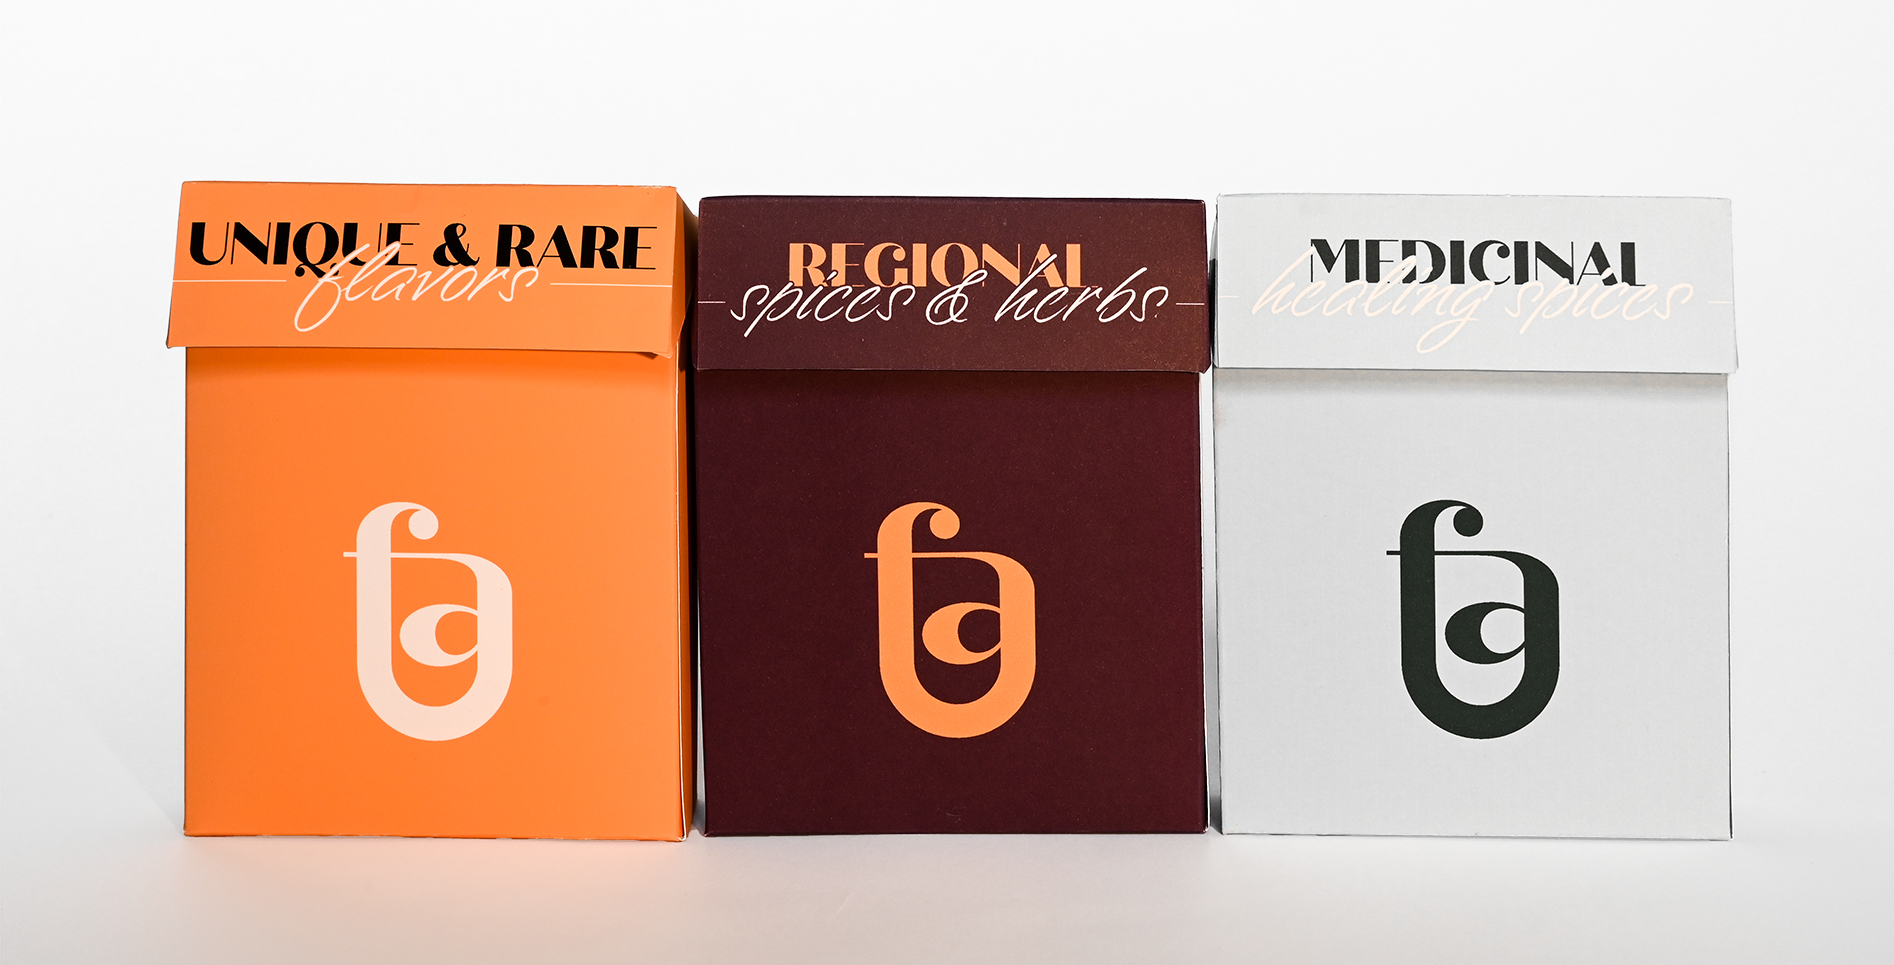
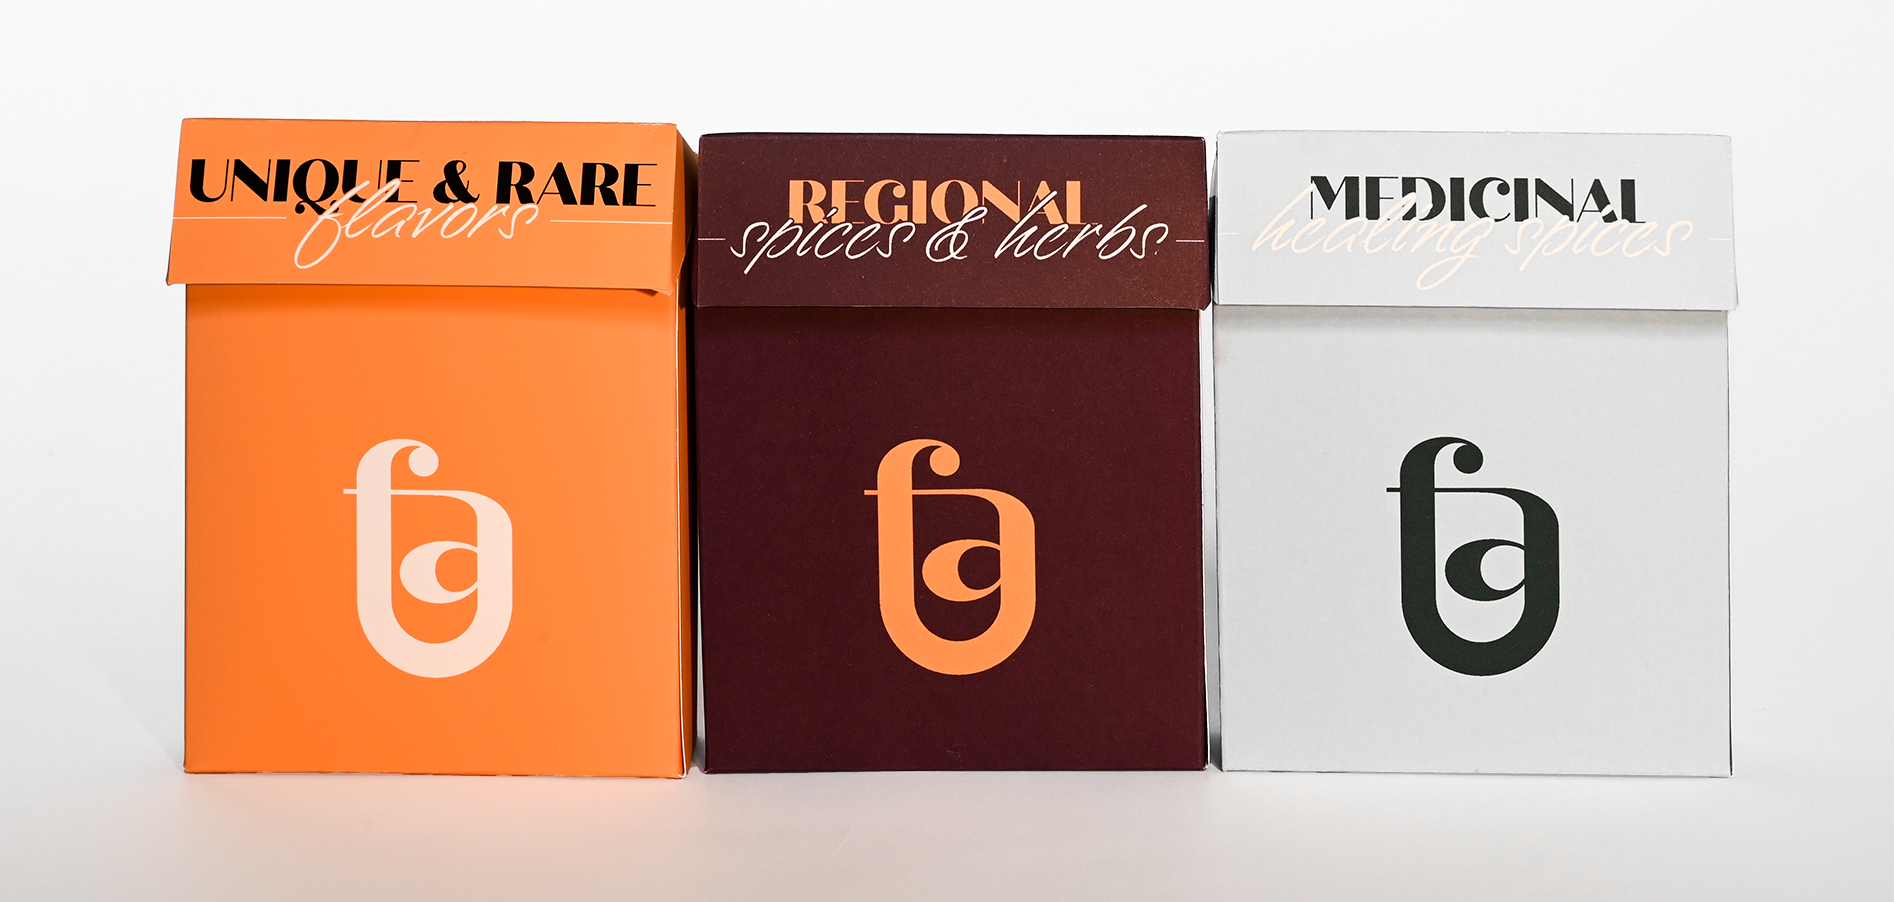
minor mobile corrections

diff --git a/works.html b/works.html
@@ -81,7 +81,7 @@
         </div>
         <div class="small_card card">
             <a href="art.html" class="a_img"><img class="card_image" src="Images/Art/Mock_up.png" alt="transparent pages flipping"></a>
-            <a href="art.html" class="title"><h2 class="title"><strong>ART poster</strong> / Interactive Website</h2></a>
+            <a href="art.html" class="title"><h2 class="title"><strong>ART poster</strong> / Interactive Poster</h2></a>
             <div class="features">
                 <p class="feature">Poster Design</p>
                 <p class="feature">Experimental Typography</p>
@@ -90,7 +90,7 @@
         </div>
         <div class="small_card card">
             <a href="goes.html" class="a_img"><img class="card_image" src="Images/GOES.png" alt="transparent pages flipping"></a>
-            <a href="goes.html" class="title"><h2 class="title"><strong>GOES Satelites</strong> / Book Design</h2></a>
+            <a href="goes.html" class="title"><h2 class="title"><strong>GOES Satelites</strong> / Poster Design</h2></a>
             <div class="features">
                 <p class="feature">Data Infographic</p>
                 <p class="feature">Poster Design</p>

diff --git a/flavoratlas.css b/flavoratlas.css
@@ -193,14 +193,14 @@ p, li {
 
 .collections_img {
     width: 100%;
-    padding-bottom: 20vh;
+    padding-bottom: 15vh;
 }
 
 /* PRINT SECTION */
 
 .print {
     width: 100%;
-    padding: 0 2vw 10vh 2vw;
+    padding: 0 2vw 5vh 2vw;
     display: grid;
     grid-template-columns: repeat(12, 1fr);
     gap: 2vw;
@@ -229,7 +229,7 @@ p, li {
     column-gap: 0;
 }
 
-#count {
+.count {
     margin-bottom: 2rem;
 }
 
@@ -371,10 +371,12 @@ p, li {
 
     h1 {
         font-size: 5em;
+        margin-bottom: 3vh;
     }
 
     h2 {
-        font-size: 2.4em;
+        font-size: 2em;
+        margin-top: 1em;
     }
 
     p, li {
@@ -412,6 +414,10 @@ p, li {
     .software {
         margin-top: 0;
         grid-column: 7 / span 5;
+    }
+
+    .collections_img, .print {
+        padding-bottom: 10vh;
     }
 
     .print_text, .website_text {
@@ -488,6 +494,15 @@ p, li {
 
     #mobile {
         width: 40%;
+    }
+
+    .button, .button:hover {
+        margin: 5vh 0;
+        width: fit-content;
+    }
+
+    #arrow {
+        transform: none;
     }
 
     .footer {

diff --git a/index.html b/index.html
@@ -70,13 +70,14 @@
             </div>
         </div>
         <div class="small_card card">
-            <a href="moon.html" class="a_img"><img class="card_image" src="Images/Moon/Card.png" alt="transparent pages flipping"></a>
-            <a href="moon.html" class="title"><h2 class="title"><strong>The Moon</strong> / Book Design</h2></a>
+            <a href="flavoratlas_intro.html" class="a_img"><img class="card_image" src="Images/Flavor Atlas/main.png" alt="box with cards"></a>
+            <a href="flavoratlas_intro.html" class="title"><h2 class="title"><strong>Flavor Atlas</strong> / Serial Branded Publication</h2></a>
             <div class="features">
-                <p class="feature">Editorial Design</p>
-                <p class="feature">Typography</p>
+                <p class="feature">Editorial Collection</p>
+                <p class="feature">Branding</p>
+                <p class="feature">Data-based Website</p>
             </div>
-        </div>
+        </div>  
     </div>
 
     <a href="works.html" class="button">

diff --git a/axles&spokes.css b/axles&spokes.css
@@ -233,7 +233,7 @@ p, li {
     align-items: center;
 }
 
-#count {
+.count {
     margin-bottom: 2rem;
 }
 
@@ -404,10 +404,12 @@ p, li {
 
     h1 {
         font-size: 5em;
+        margin-bottom: 3vh;
     }
 
     h2 {
-        font-size: 2.4em;
+        font-size: 2em;
+        margin-top: 1em;
     }
 
     p, li {
@@ -417,6 +419,19 @@ p, li {
 
     #link, #copyright {
         font-size: 1.8em;
+    }
+
+    .button, .button:hover {
+        margin: 5vh 2vw;
+        width: fit-content;
+    }
+
+    #website_link {
+        font-size: 1.8rem;
+    }
+
+    #arrow {
+        transform: none;
     }
 
     .hero_image {
@@ -451,8 +466,9 @@ p, li {
         margin-bottom: 5vh;
     }
 
-    .website {
+    .print, .website {
         height: fit-content;
+        padding-bottom: 5vh;
     }
 
     .print_text, .website_text, .social_text {

diff --git a/home.css b/home.css
@@ -370,7 +370,7 @@ h2 strong {
     }
 
     h2 {
-        font-size: 2.4em;
+        font-size: 2em;
         margin-top: 1em;
     }
 
@@ -389,10 +389,10 @@ h2 strong {
     .cards {
         width: 96vw;
         height: fit-content;
-        margin: 15vh auto 5vh;
+        margin: 10vh auto 8vh;
         display: flex;
         flex-direction: column;
-        gap: 5vh;
+        gap: 10vh;
     }
 
     .features {
@@ -407,7 +407,7 @@ h2 strong {
     }
 
     #button {
-        font-size: 1.8em;
+        font-size: 1.6em;
     }
     
     .button, .button:hover {

diff --git a/doe.css b/doe.css
@@ -253,10 +253,12 @@ p, li {
     
     h1 {
         font-size: 5em;
+        margin-bottom: 3vh;
     }
 
     h2 {
-        font-size: 2.4em;
+        font-size: 2em;
+        margin-top: 1em;
     }
 
     p, li {
@@ -277,7 +279,7 @@ p, li {
     }
 
     .main {
-        gap: 4vh;
+        gap: 2vh;
     }
 
     .info {
@@ -297,6 +299,10 @@ p, li {
     .button, .button:hover {
         margin: 5vh 2vw;
         width: fit-content;
+    }
+
+    #website_link {
+        font-size: 1.8rem;
     }
 
     #arrow {

diff --git a/works.css b/works.css
@@ -317,16 +317,17 @@ h2 strong {
     
     h1 {
         font-size: 5em;
+        margin-bottom: 3vh;
     }
 
     h2 {
-        font-size: 2.4em;
+        font-size: 2em;
         margin-top: 1em;
     }
 
-#link, #copyright {
-    font-size: 1.8em;
-}
+    #link, #copyright {
+        font-size: 1.8em;
+    }
 
     .feature {
         background-color: #f3f3f35f;

diff --git a/solace.css b/solace.css
@@ -221,6 +221,10 @@ p, li {
     align-items: center;
 }
 
+.count {
+    margin-bottom: 2rem;
+}
+
 /* FOOTER SECTION */
 
 .footer {
@@ -266,10 +270,12 @@ p, li {
     
     h1 {
         font-size: 5em;
+        margin-bottom: 3vh;
     }
 
     h2 {
-        font-size: 2.4em;
+        font-size: 2em;
+        margin-top: 1em;
     }
 
     p, li {

diff --git a/emotions.css b/emotions.css
@@ -252,10 +252,12 @@ p, li {
     
     h1 {
         font-size: 5em;
+        margin-bottom: 3vh;
     }
 
     h2 {
-        font-size: 2.4em;
+        font-size: 2em;
+        margin-top: 1em;
     }
 
     p, li {
@@ -301,8 +303,6 @@ p, li {
     #arrow {
         transform: none;
     }
-
-
 
     .footer {
         padding: 6vh 2vw;

diff --git a/solitude.css b/solitude.css
@@ -309,10 +309,12 @@ p, li {
     
     h1 {
         font-size: 5em;
+        margin-bottom: 3vh;
     }
 
     h2 {
-        font-size: 2.4em;
+        font-size: 2em;
+        margin-top: 1em;
     }
 
     p, li {

diff --git a/moon.css b/moon.css
@@ -60,6 +60,7 @@ p, li {
 
 .menu_link {
     color: #0A042C;
+    text-decoration: none;
 }
 
 #link {
@@ -237,7 +238,7 @@ p, li {
     align-items: center;
 }
 
-#count {
+.count {
     margin-bottom: 2rem;
 }
 

diff --git a/posters.css b/posters.css
@@ -269,10 +269,12 @@ p, li {
 
     h1 {
         font-size: 5em;
+        margin-bottom: 3vh;
     }
 
     h2 {
-        font-size: 2.4em;
+        font-size: 2em;
+        margin-top: 1em;
     }
 
     p, li {
